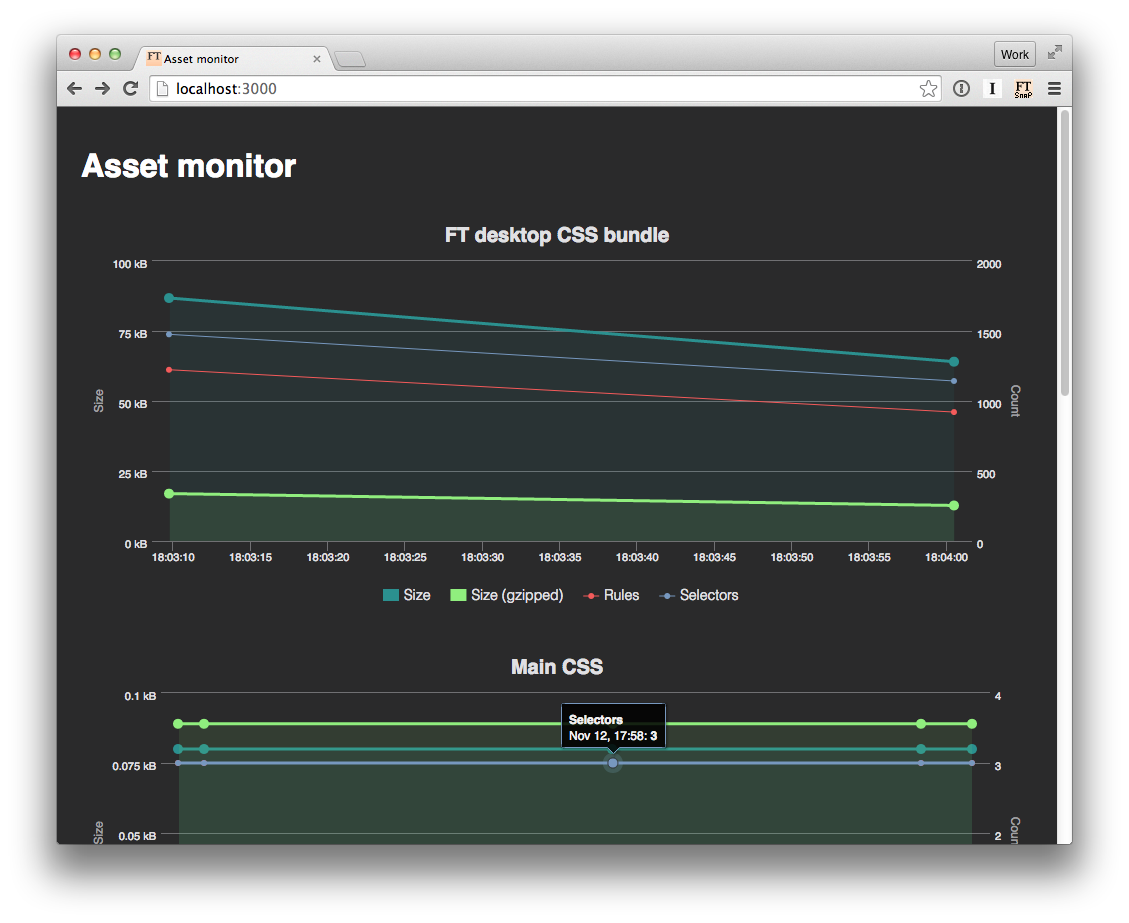
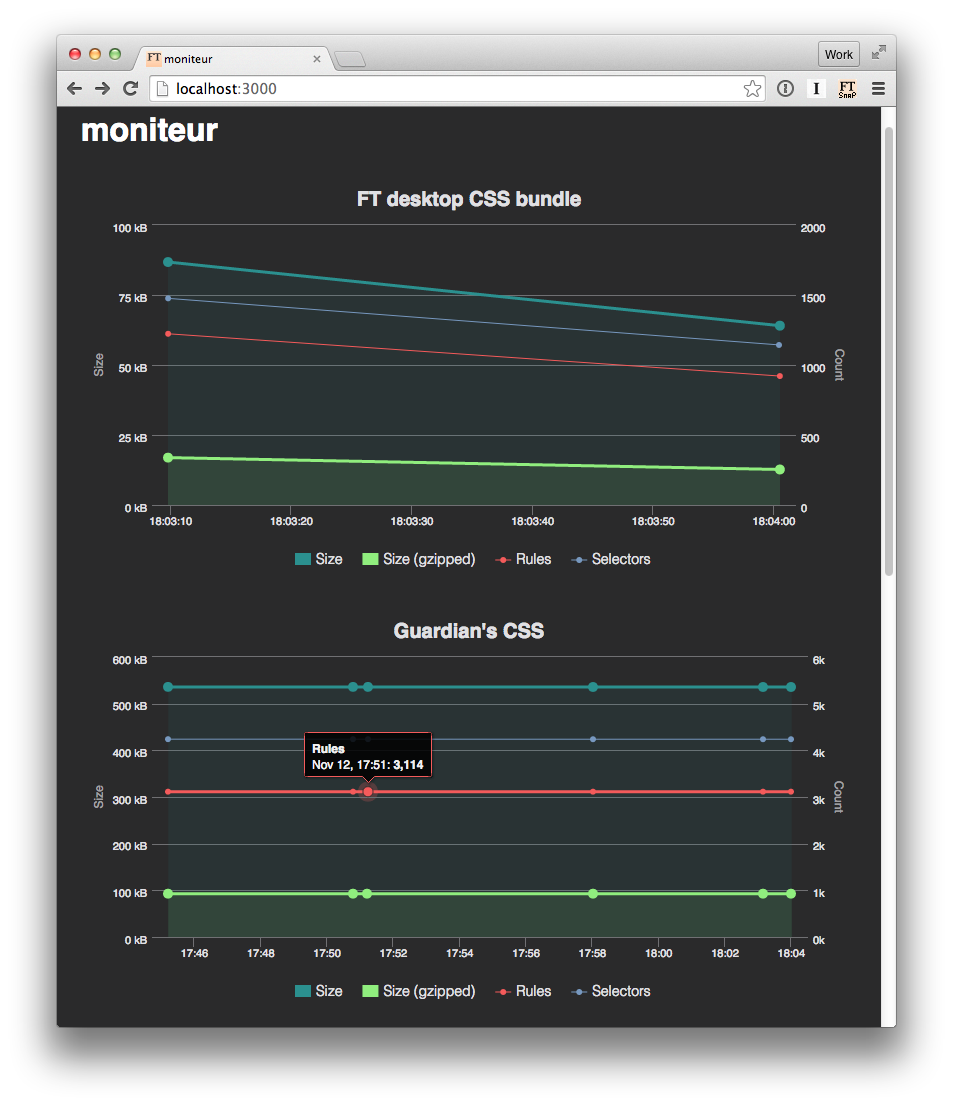
Rename into 'moniteur'

diff --git a/routes/index.js b/routes/index.js
@@ -3,7 +3,7 @@ var router = express.Router();
 
 /* GET home page. */
 router.get('/', function(req, res) {
-  res.render('index', { title: 'Asset monitor' });
+  res.render('index', { title: 'moniteur' });
 });
 
 module.exports = router;

diff --git a/README.md b/README.md
@@ -1,9 +1,11 @@
-## Asset monitor
+## moniteur
 
 Monitor your asset size over time, in your browser,
 or using the provided HTTP API.
 
 This is my first Node app, I know it is messy and it lacks tests.
+
+
 
 
 ### Development
@@ -74,7 +76,7 @@ Returns something in the form
 
 #### License
 
-MIT
+ISC
 
 #### Roadmap
 
